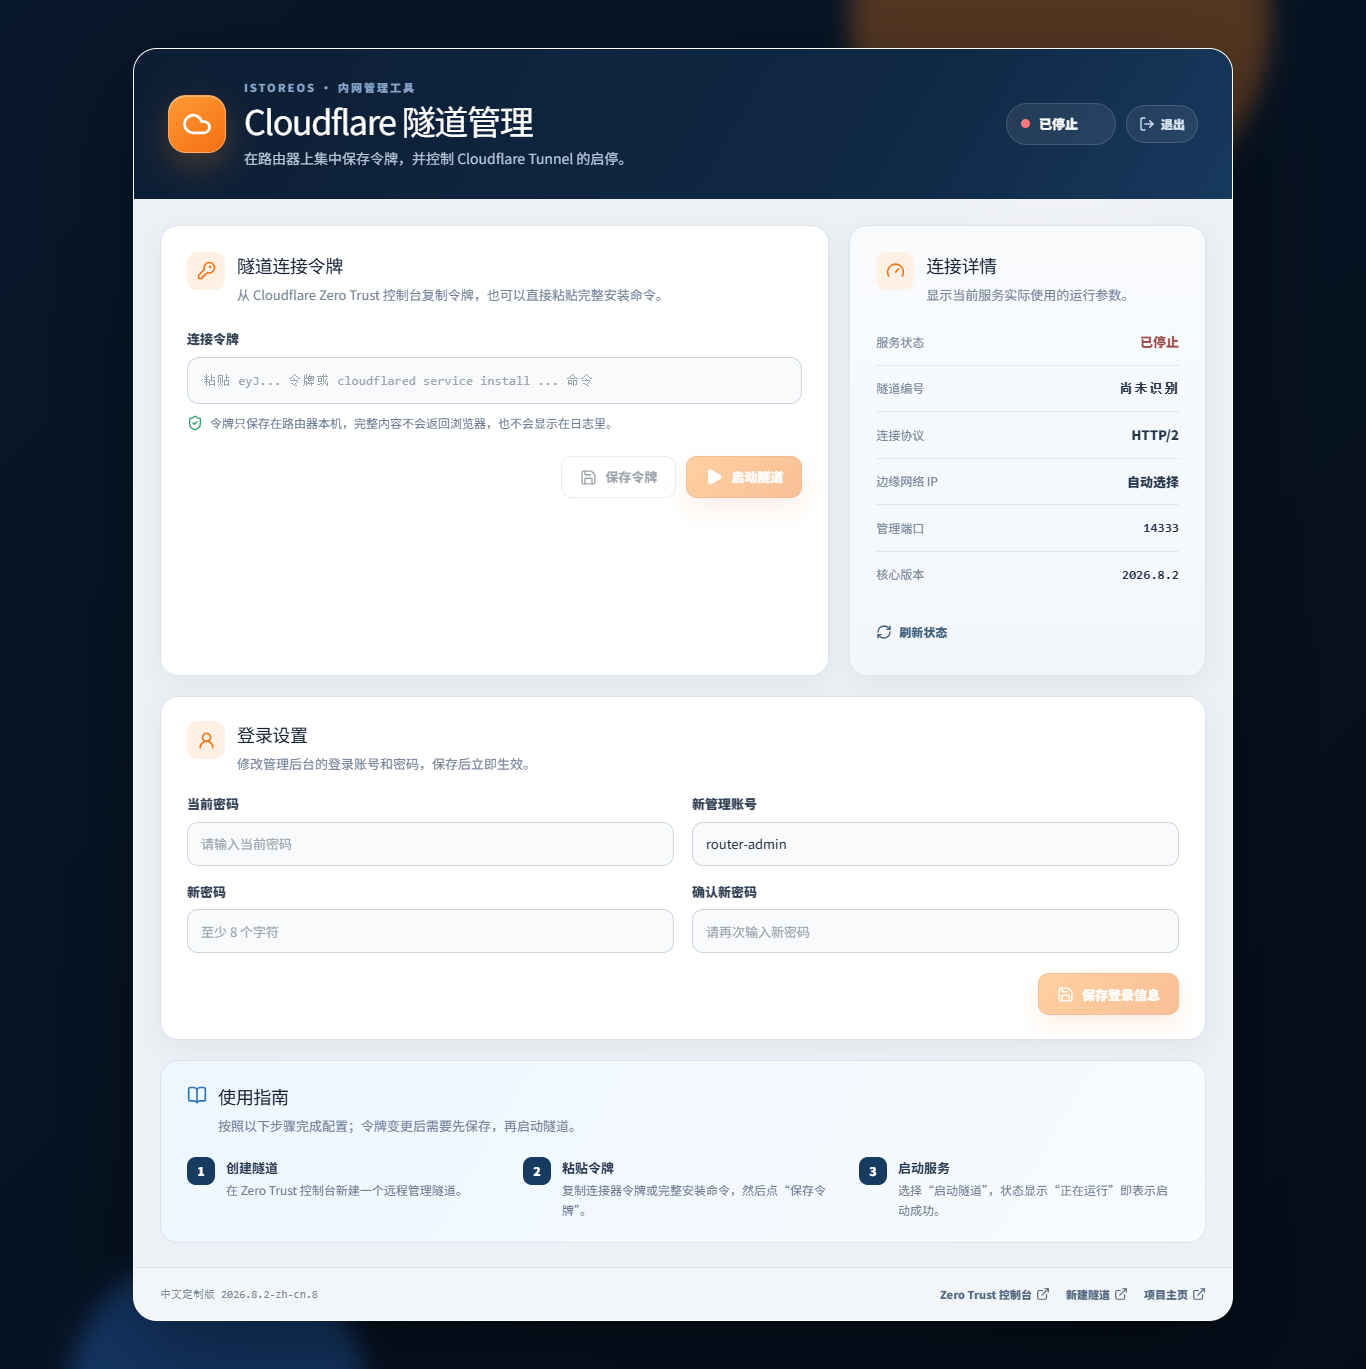
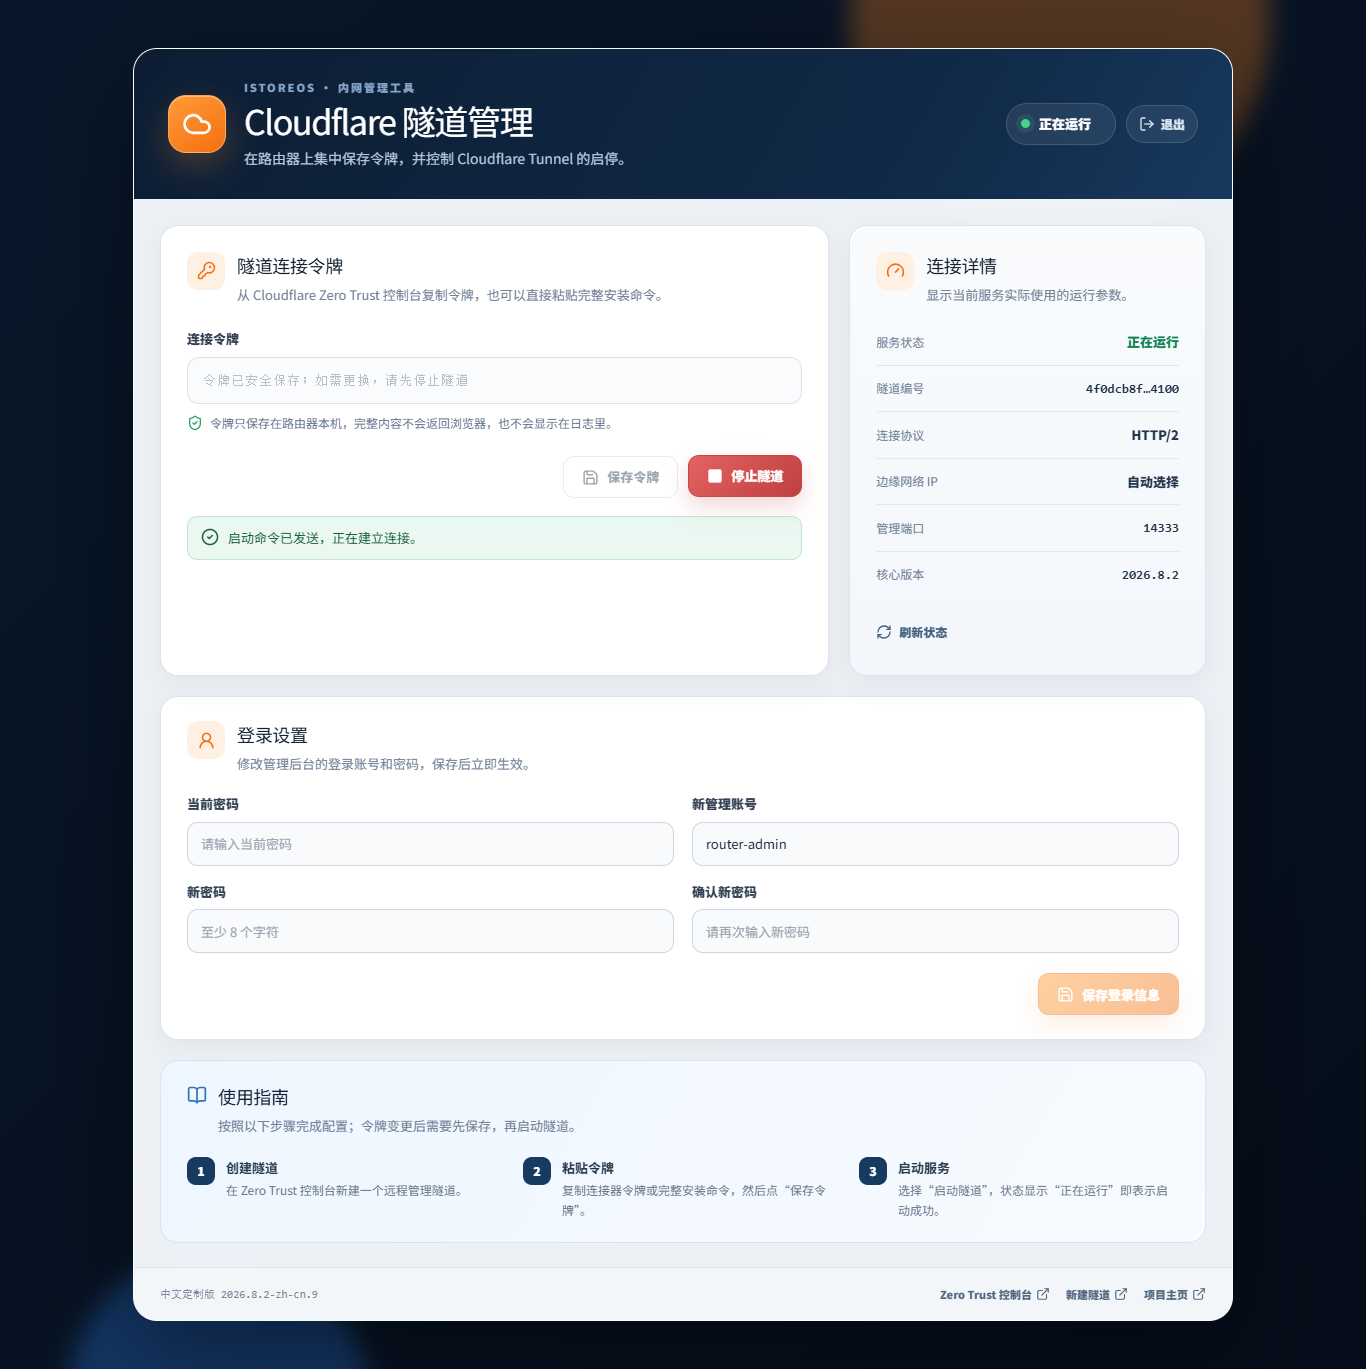
fix: ship minimal patched runtime

diff --git a/app/backend/cloudflare-tunnel.js b/app/backend/cloudflare-tunnel.js
@@ -4,10 +4,38 @@
  */
 
 const childProcess = require('node:child_process');
-const commandExistsSync = require('command-exists').sync;
+const fs = require('node:fs');
+const path = require('node:path');
+
+function resolveExecutable(command) {
+  const text = String(command || '').trim();
+  if (!text) return '';
+
+  const hasPathSeparator = text.includes('/') || text.includes('\\');
+  const directories = hasPathSeparator ? [''] : String(process.env.PATH || '').split(path.delimiter);
+  const extensions = process.platform === 'win32'
+    ? ['', ...String(process.env.PATHEXT || '.EXE;.CMD;.BAT;.COM').split(';')]
+    : [''];
+
+  for (const directory of directories) {
+    for (const extension of extensions) {
+      const executableName = extension && !text.toLowerCase().endsWith(extension.toLowerCase())
+        ? text + extension
+        : text;
+      const candidate = hasPathSeparator ? executableName : path.join(directory, executableName);
+      try {
+        fs.accessSync(candidate, fs.constants.X_OK);
+        return candidate;
+      } catch {
+        // 继续检查下一个 PATH 目录。
+      }
+    }
+  }
+  return '';
+}
 
 class CloudflaredTunnel {
-  constructor(cloudflaredPath = 'cloudflared') {
+  constructor(cloudflaredPath = '/usr/local/bin/cloudflared') {
     this.cloudflaredPath = cloudflaredPath;
     this.childProcess = null;
     this.lastError = '';
@@ -29,7 +57,8 @@ class CloudflaredTunnel {
 
   start(additionalArgs = {}) {
     if (this.isRunning()) throw new Error('Already started');
-    if (!commandExistsSync(this.cloudflaredPath)) {
+    const executablePath = resolveExecutable(this.cloudflaredPath);
+    if (!executablePath) {
       throw new Error(`Cloudflared error: ${this.cloudflaredPath} is not found`);
     }
     if (!this.token) throw new Error('Cloudflared error: Token is not set');
@@ -50,7 +79,7 @@ class CloudflaredTunnel {
     console.log('TUNNEL: 启动 cloudflared', safeArgs.join(' '));
 
     this.lastError = '';
-    this.childProcess = childProcess.spawn(this.cloudflaredPath, args);
+    this.childProcess = childProcess.spawn(executablePath, args);
     this.childProcess.stdout.pipe(process.stdout);
     this.childProcess.stderr.pipe(process.stderr);
 

diff --git a/app/backend/app.js b/app/backend/app.js
@@ -10,7 +10,8 @@ const { execFileSync } = require('node:child_process');
 const { CloudflaredTunnel } = require('./cloudflare-tunnel.js');
 
 const app = express();
-const tunnel = new CloudflaredTunnel();
+const cloudflaredPath = process.env.CLOUDFLARED_BIN || (process.platform === 'win32' ? 'cloudflared' : '/usr/local/bin/cloudflared');
+const tunnel = new CloudflaredTunnel(cloudflaredPath);
 const port = process.env.WEBUI_PORT || 14333;
 const host = process.env.WEBUI_HOST || '0.0.0.0';
 const configdir = process.env.CONFIG_DIR || '/config';
@@ -252,7 +253,7 @@ app.get('/details', (req, res) => {
 
 app.get('/version', (req, res) => {
   try {
-    const version = execFileSync('cloudflared', ['-v'], { encoding: 'utf8', timeout: 5000 });
+    const version = execFileSync(cloudflaredPath, ['-v'], { encoding: 'utf8', timeout: 5000 });
     res.status(200).type('text/plain').send(version);
   } catch (error) {
     res.status(500).type('text/plain').send('无法读取 cloudflared 版本。');
@@ -338,7 +339,7 @@ app.post('/advanced/config/local', (req, res) => {
     fs.writeFileSync(tempFile.name, yaml, { mode: 0o600 });
     if (yaml.trim()) {
       execFileSync(
-        'cloudflared',
+        cloudflaredPath,
         ['--config', tempFile.name, 'tunnel', 'ingress', 'validate'],
         { timeout: 10000, maxBuffer: 1024 * 1024 },
       );

diff --git a/app/frontend/src/App.vue b/app/frontend/src/App.vue
@@ -101,7 +101,7 @@
           </button>
         </form>
 
-        <p class="login-footer">中文定制版 2026.8.2-zh-cn.8 · 仅限授权人员访问</p>
+        <p class="login-footer">中文定制版 2026.8.2-zh-cn.9 · 仅限授权人员访问</p>
       </section>
     </main>
 
@@ -438,7 +438,7 @@
 
       <footer class="footer-bar">
         <div>
-          <span class="build-tag">中文定制版 2026.8.2-zh-cn.8</span>
+          <span class="build-tag">中文定制版 2026.8.2-zh-cn.9</span>
           <span v-if="updateInfo.update" class="update-tip">项目有新版本 {{ updateInfo.latest_version }}</span>
         </div>
         <nav aria-label="相关链接">

diff --git a/README.md b/README.md
@@ -34,7 +34,7 @@
 
 | 项目 | 当前版本 |
 | --- | --- |
-| 中文定制版 | `2026.8.2-zh-cn.8` |
+| 中文定制版 | `2026.8.2-zh-cn.9` |
 | cloudflared | `2026.8.2` |
 | 默认管理端口 | `14333` |
 | 容器镜像 | `ghcr.io/w87051809/cloudflared-web-zh-cn` |
@@ -74,7 +74,7 @@ CLOUDFLARED_WEB_SESSION_SECRET=请替换为至少32位的随机字符
 ```yaml
 services:
   cloudflared-web:
-    image: ghcr.io/w87051809/cloudflared-web-zh-cn:2026.8.2-zh-cn.8
+    image: ghcr.io/w87051809/cloudflared-web-zh-cn:2026.8.2-zh-cn.9
     container_name: cloudflared-web
     restart: unless-stopped
     network_mode: host
@@ -150,6 +150,9 @@ http://路由器IP:14333
 - 写入接口只接受同源 JSON 请求，并统一设置安全响应头和禁止敏感内容缓存。
 - Tunnel Token 仅保存在容器挂载的 `/config/config.json`，管理页面不会返回完整内容。
 - 示例部署启用只读根文件系统、受限临时目录和 `no-new-privileges`。
+- 运行镜像采用固定摘要的 Distroless Node.js，不包含 npm、curl、Shell 和系统包管理器。
+- cloudflared `2026.8.2` 使用经过 SHA-256 校验的官方标签源码和 Go `1.26.6` 构建，补齐核心运行时安全修复。
+- 发布流水线逐架构扫描实际待发布摘要；存在可修复的高危或严重漏洞时不会发布正式镜像标签。
 - 配置目录、环境变量文件和备份文件应限制为管理员访问。
 
 详细安全说明见 [SECURITY.md](SECURITY.md)。
@@ -178,7 +181,7 @@ docker compose up -d
 ```bash
 docker buildx build \
   --platform linux/amd64,linux/arm64,linux/arm/v7 \
-  -t cloudflared-web-zh-cn:2026.8.2-zh-cn.8 .
+  -t cloudflared-web-zh-cn:2026.8.2-zh-cn.9 .
 ```
 
 Dockerfile 会从 Cloudflare 官方发布地址下载对应架构的软件包并进行 SHA-256 校验。

diff --git a/CHANGELOG.md b/CHANGELOG.md
@@ -2,6 +2,15 @@
 
 本项目采用 `cloudflared版本-zh-cn.修订号` 的版本格式。
 
+## 2026.8.2-zh-cn.9
+
+- 运行镜像改用固定摘要的 Distroless Node.js，仅保留管理服务运行所需文件。
+- cloudflared 继续保持 `2026.8.2`，并使用带安全修复的 Go `1.26.6` 从官方标签源码重新构建。
+- cloudflared 官方源码归档、Go 构建镜像和运行镜像均固定摘要或 SHA-256 校验值。
+- 移除运行时不再需要的 npm、curl、包管理器和命令查找依赖，进一步缩小攻击面。
+- 镜像扫描同时保留完整报告，并阻止存在可修复高危或严重漏洞的镜像发布。
+- 修正三种架构镜像扫描参数，单个架构失败时仍会完成其余架构的审查。
+
 ## 2026.8.2-zh-cn.8
 
 - 默认账号和密码首次登录后必须更换，完成前不会开放隧道管理接口。

diff --git a/SECURITY.md b/SECURITY.md
@@ -7,6 +7,8 @@
 - Cloudflare Tunnel 指向本管理页面时，源服务必须使用 `127.0.0.1` 或 `localhost`，不能使用路由器局域网 IP。
 - `/config/auth.json` 包含登录密码的加盐哈希，应仅允许管理员和容器读取。
 - `/config/config.json` 和 cloudflared 配置文件包含敏感信息，程序会按 `0600` 权限原子写入。
+- 正式镜像使用最小化 Distroless 运行环境，cloudflared 从校验后的官方标签源码使用已修复 Go 工具链构建。
+- 发布前会扫描每种架构的实际镜像摘要，并阻止带有可修复高危或严重漏洞的镜像发布。
 - 登录会话可在退出时立即吊销，敏感接口禁止缓存并校验同源 JSON 请求。
 - 怀疑 Token 泄露时，应立即在 Cloudflare Zero Trust 后台更换令牌。
 - 安全问题请使用 GitHub Security Advisory 私下报告。
